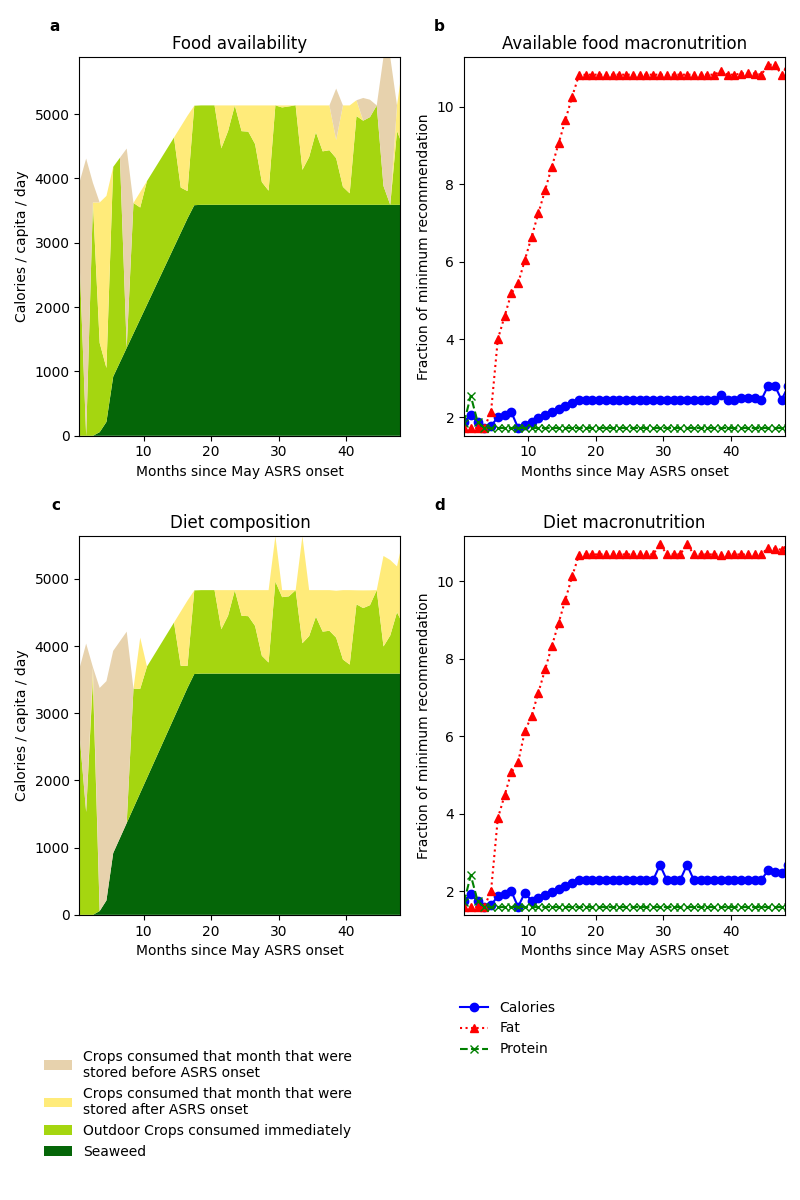
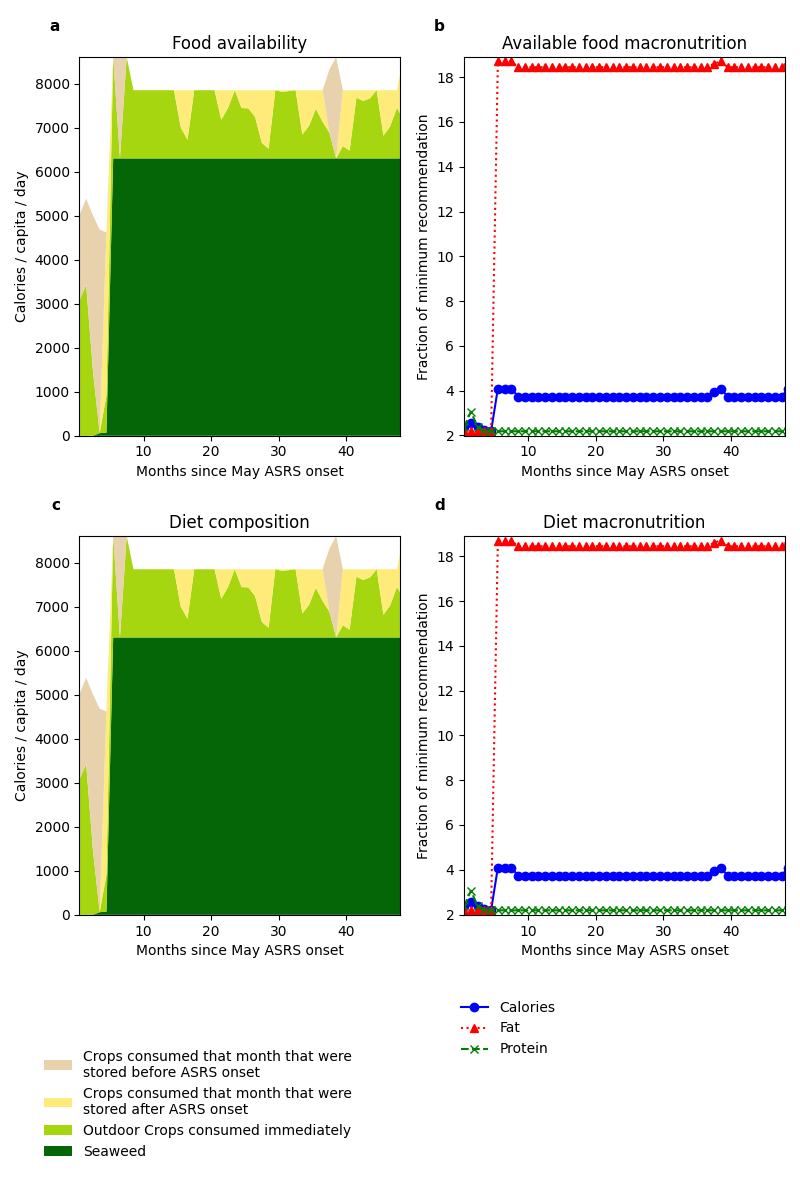
messing with plots

diff --git a/src/food_system/seaweed.py b/src/food_system/seaweed.py
@@ -82,4 +82,9 @@ class Seaweed:
         built_area_long[built_area_long > self.MAXIMUM_AREA] = self.MAXIMUM_AREA
         built_area = built_area_long[0:self.NMONTHS*30]
 
-        return built_area
+        # import matplotlib.pyplot as plt
+
+        # plt.plot(built_area)
+        # plt.show()
+
+        return built_area/100
